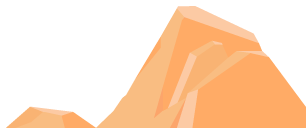
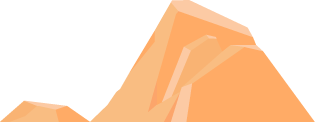
start states

diff --git a/app/js/app.js b/app/js/app.js
@@ -1,32 +1,42 @@
 /* ==========================================================================
-   Marsonians
+   Marsonians - Game
    ========================================================================== */
 
 var marsonians = marsonians || {};
 
-marsonians.app = function(undefined) {
+marsonians.game = function() {
+    // Set globals
+    window.gameCanvas = document.getElementById('game-container');
+    window.globDevicePixelRatio = window.devicePixelRatio;
+    window.globWidth = window.innerWidth * globDevicePixelRatio;
+    window.globHeight = window.innerHeight * globDevicePixelRatio;
+    window.globLifeCount = 3;
+    window.globAlienCount = 3;
+    window.globShootSpeed = 3;
+    window.globAliens = undefined;
 
-    // App: Init
-    var appInit = function() {
-        marsonians.game();
-    }();
-};
-
-
-
-var ready = function(fn) {
-    // Sanity check
-    if (typeof(fn) !== 'function') return;
-
-    // If document is already loaded, run method
-    if (document.readyState === 'complete') {
-        return fn();
+    if (window.globWidth > 2000) {
+        globWidth = window.innerWidth;
+        globHeight = window.innerHeight;
     }
 
-    // Otherwise, wait until document is loaded
-    document.addEventListener('DOMContentLoaded', fn, false);
-};
 
-ready(function() {
-    marsonians.app();
-});
+    // Start Phaser Game
+    window.marsoniansGame = new Phaser.Game(
+        globWidth, globHeight,
+        Phaser.AUTO,
+        'game-container'
+    );
+
+
+    // Add states
+    marsoniansGame.state.add('boot', marsonians.bootState);
+    marsoniansGame.state.add('preload', marsonians.preloadState);
+    marsoniansGame.state.add('menu', marsonians.bootState);
+    marsoniansGame.state.add('game', marsonians.bootState);
+    marsoniansGame.state.add('dead', marsonians.bootState);
+
+
+    // Start boot state
+    marsoniansGame.state.start('boot');
+}();

diff --git a/app/js/game/_create.js b/app/js/game/_create.js
@@ -5,33 +5,24 @@
 var marsonians = marsonians || {};
 
 marsonians.create = function() {
+
+    // Bounds
     marsoniansGame.world.setBounds(0, 0, globWidth, globHeight);
 
+
+    // Physics
     marsoniansGame.physics.startSystem(Phaser.Physics.ARCADE);
     marsoniansGame.physics.arcade.gravity.x = 0;
     marsoniansGame.physics.arcade.gravity.y = 10;
 
-    marsonians.gameBackground.setBack();
 
+    // Create game
+    marsonians.gameBackground.setBack();
     marsonians.life.set();
     marsonians.life.startLifeSystem();
     marsonians.shader.init();
     marsonians.audio.init();
     marsonians.alien.create();
-
     marsonians.gameBackground.setFront();
-
     marsonians.cursor.init();
-
-
-    if (!marsoniansGame.device.desktop) {
-        marsoniansGame.scale.forceLandscape = true;
-    } else {
-        marsoniansGame.scale.maxWidth = 667;
-        marsoniansGame.scale.maxHeight = 375;
-    }
-
-    marsoniansGame.scale.scaleMode = Phaser.ScaleManager.SHOW_ALL;
-    marsoniansGame.scale.pageAlignHorizontally = true;
-    marsoniansGame.scale.setScreenSize(true);
 };

diff --git a/app/js/game/background/_background.js b/app/js/game/background/_background.js
@@ -9,10 +9,12 @@ marsonians.gameBackground = function() {
     var exports = this.gameBackground;
 
     var screenShakeOffset = -(40 * globDevicePixelRatio),
-        frontBg;
+        frontBg1, frontBg2;
 
-    var frontLeft = globWidth - 306,
-        frontTop = globHeight - 128;
+    var frontLeft1 = globWidth - 306,
+        frontTop1 = globHeight - 122 + 10,
+        frontLeft2 = globWidth / 5,
+        frontTop2 = globHeight - 122 + 10;
 
 
     // Set back
@@ -24,12 +26,13 @@ marsonians.gameBackground = function() {
 
     // Set front
     exports.setFront = function() {
-        frontBg = marsoniansGame.add.image(frontLeft, frontTop, 'background-front');
+        frontBg1 = marsoniansGame.add.image(frontLeft1, frontTop1, 'background-front');
+        frontBg2 = marsoniansGame.add.image(frontLeft2, frontTop2, 'background-front');
     };
 
 
     // Update front
     exports.updateFront = function() {
-        frontBg.x = frontLeft - (marsoniansGame.input.x * 0.05);
+        frontBg1.x = frontLeft - (marsoniansGame.input.x * 0.05);
     };
 };

diff --git a/app/js/_boot.js b/app/js/_boot.js
@@ -1,0 +1,32 @@
+/* ==========================================================================
+   Marsonians - Game
+   ========================================================================== */
+
+marsonians.bootState = function() {};
+
+marsonians.bootState.prototype = {
+    preload : function(){
+        // load assets for the loading screen
+        // marsoniansGame.load.image('preloaderBackground', 'assets/preloadbck.png');
+        // marsoniansGame.load.image('preloaderBar', 'assets/preloadbar.png');
+    },
+
+    create : function(){
+        // Scale
+        if (!marsoniansGame.device.desktop) {
+            marsoniansGame.scale.forceLandscape = true;
+        } else {
+            marsoniansGame.scale.maxWidth = 1334;
+            marsoniansGame.scale.maxHeight = 750;
+        }
+
+        marsoniansGame.scale.scaleMode = Phaser.ScaleManager.SHOW_ALL;
+        marsoniansGame.scale.pageAlignHorizontally = true;
+
+        marsoniansGame.state.start('preload');
+    },
+
+    update : function(){
+
+    }
+};

diff --git a/app/js/game/_preload.js b/app/js/game/_preload.js
@@ -6,7 +6,7 @@ var marsonians = marsonians || {};
 
 marsonians.preload = function() {
     marsoniansGame.load.image('background', 'dist/img/landscape--extra-wide.jpg', 2560, 800);
-    marsoniansGame.load.image('background-front', 'dist/img/landscape--front.png', 306, 128);
+    marsoniansGame.load.image('background-front', 'dist/img/landscape--front.png', 315, 122);
 
     marsoniansGame.load.image('crosshair', 'dist/img/crosshair.png', 74, 72);
 

diff --git a/app/js/game/life/_life.js b/app/js/game/life/_life.js
@@ -35,9 +35,9 @@ marsonians.life = function() {
             scaleX = 1 * scaleModifier,
             scaleY = 1 * scaleModifier;
 
-        if (scaleX < 0.2 || scaleY < 0.2) {
-            scaleX = 0.2;
-            scaleY = 0.2;
+        if (scaleX < 0.4 || scaleY < 0.4) {
+            scaleX = 0.4;
+            scaleY = 0.4;
         }
 
         lifeItem.scale.setTo(0.4 * scaleX, 0.4 * scaleY);

diff --git a/app/js/_preload.js b/app/js/_preload.js
@@ -2,9 +2,9 @@
    Marsonians - Game
    ========================================================================== */
 
-marsonians.gameState = function() {};
+marsonians.preloadState = function() {};
 
-marsonians.gameState.prototype = {
+marsonians.preloadState.prototype = {
     preload : function(){
 
     },

diff --git a/app/js/_dead.js b/app/js/_dead.js
@@ -2,9 +2,9 @@
    Marsonians - Game
    ========================================================================== */
 
-marsonians.gameState = function() {};
+marsonians.deadState = function() {};
 
-marsonians.gameState.prototype = {
+marsonians.deadState.prototype = {
     preload : function(){
 
     },

diff --git a/app/js/_menu.js b/app/js/_menu.js
@@ -2,9 +2,9 @@
    Marsonians - Game
    ========================================================================== */
 
-marsonians.gameState = function() {};
+marsonians.menuState = function() {};
 
-marsonians.gameState.prototype = {
+marsonians.menuState.prototype = {
     preload : function(){
 
     },
